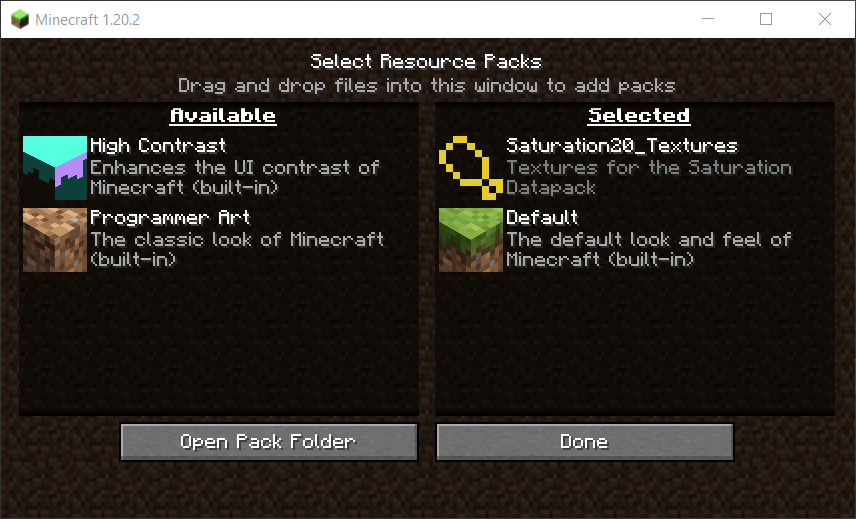
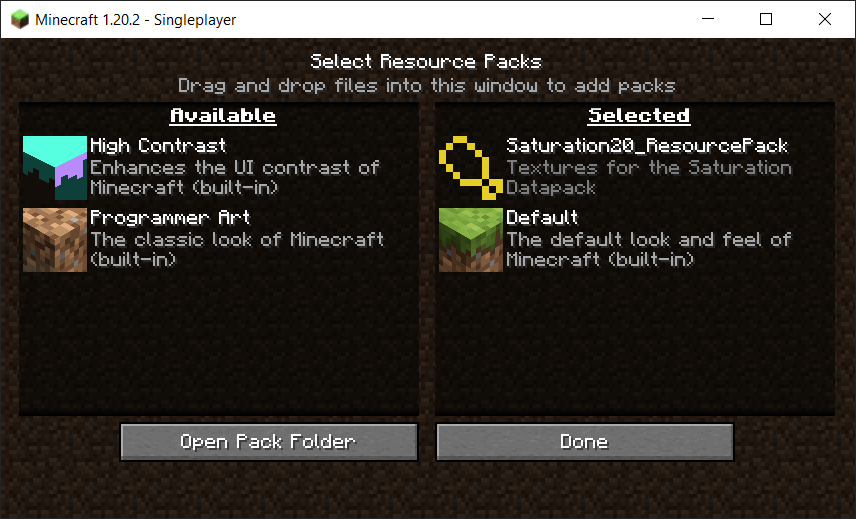
Updated screenshots and improved readme file wording/clarity

diff --git a/readme.md b/readme.md
@@ -4,7 +4,7 @@
 This datapack was originally created by TheMoneyRaider and posted to PlanetMinecraft on Novemeber 13th 2021</b><br />
 Original Source: https://www.planetminecraft.com/data-pack/saturation-bar-in-minecraft/
 
-This git repository contains a modified version of TheMoneyRaider's original Saturation Bar Datapack. This version includes fixes and improvements added by MakCuber, and makes the Datapack natively compatibile with Minecraft 1.20.2
+This git repository contains a modified version of TheMoneyRaider's original Saturation Bar Datapack. This version includes fixes and improvements added by MakCuber, and makes the Datapack natively compatibile with Minecraft Java 1.20.2
 
 The changes compared to the original Saturation Bar Datapack include:
 - Added a fix for a graphical issue with the positioning of the Saturation Icons resulting from incorrect character offsets in the title actionbar commands
@@ -15,20 +15,20 @@ The changes compared to the original Saturation Bar Datapack include:
 
 ## Installation ##
 
-<b>NOTE: This Datapack must be used with the accompaning Resource Pack (the folder labelled Saturation20_Textures), which has also been updated to the latest datapack version for Minecraft 1.20.2. If the accompaning resource pack is not used, the custom title actionbar will show as the blank unicode characters: <code>[]</code> </b>
+<b>NOTE: This Datapack must be used with the accompaning Resource Pack (the folder labelled Saturation20_ResourcePack), which has also been updated to the latest datapack version for Minecraft 1.20.2. If the accompaning resource pack is not used, the custom title actionbar will show as the blank unicode characters: <code>[]</code> </b>
 
 ### Install in Single Player/Local World ###
 
-1. Download the Saturation20 and Saturation20_Textures folders from this git repository. You can do this by clicking the green Code button and selecting the Download ZIP option from the dropdown menu.
+1. Download the Saturation20_Datapack and Saturation20_ResourcePack folders from this git repository. You can do this downloading the latest release files (right sidebar) or by clicking the green Code button in the Github respository and selecting the Download ZIP option from the dropdown menu to download a full copy of the repository files.
 2. Open your Minecraft World folder, either by navigating to it manually, or from within the Minecraft main menu by selecting the world, clicking the Edit button, then clicking the Open World Folder button
 ![Alt text](screenshots/edit_world.PNG)
 ![Alt text](screenshots/open_world_folder.PNG)
 3. In your Minecraft World folder, there should be a folder called "datapacks", copy the Saturation20 folder in its entirity to this "datapacks" folder within your Minecraft World folder
 4. Open your Minecraft Resource Pack folder, either by navigating to it manually, or from within the Minecraft Options Menu by clicking the Resource Packs button and then clicking the Open Pack Folder button
-5. Copy the Saturation20_Textures folder in its entirity to the Resource Pack folder
+5. Copy the Saturation20_ResourcePack folder in its entirety to your local Minecraft Resource Pack folder
 6. The Resource Pack should now be visible in the Minecraft Resource Pack menu. 
 ![Alt text](screenshots/resourcepack_available.PNG)
-7. Hover the mouse cursor over the Saturation20_Texture icon on the left section and click on the Arrow icon that appears to Enable the Resource Pack
+7. Hover the mouse cursor over the Saturation20_ResourcePack icon on the left section and click on the Arrow icon that appears to Enable the Resource Pack
 ![Alt text](screenshots/resourcepack_selected.PNG)
 8. Open your Minecraft World and you should now see the Saturation Bar overlayed on top of the Hunger Bar
 ![Alt text](screenshots/saturation_bar.png)
@@ -39,14 +39,23 @@ The changes compared to the original Saturation Bar Datapack include:
 2. Ensure that your Minecraft Server is not running 
 <br>
 NOTE: While you can technically use the /reload command after installing the datapack instead of restarting the server, this is not recommended if you are running a modded server such as bukit or spigot, restarting the server is safer.
+
 3. Copy the Saturation20 folder in its entirety to the "datapacks" folder within your Minecraft Server's world folder (create the datapacks folder if it doesnt exist). The world folder which will be named with whatever world name you've configured in your server.properties file.
 <br>
-NOTE: This only needs to be done for the primary world folder, it is not required for the _nether and _the_end world folders.
-4. Edit your server.properties file found inside your Minecraft Server folder, and add the following URL to the <code>resource-pack=</code> line: </br>
-<code>`https\://download.mc-packs.net/pack/df7a57a5230a88131f7db0fb304374e5a62bd88f.zip`</code></br>
-IMPORTANT: The colon character <code>:</code> in the URL above must be escape with the proceeding backslash character <code>`\`</code>, without this the Minecraft Server will not be able to read the URL correctly
-7. Ensure the changes to your server.properties file are saved then restart your Minecraft Server
-8. Connect to your Minecraft Server and accept the Resouce Pack
+NOTE: This only needs to be done for the primary world folder, it is not required for the `world_nether` and `world_the_end` world folders.
+
+4. Edit your server.properties file found inside your Minecraft Server folder, and add the following URL to the `resource-pack=` line: </br>
+`https\://download.mc-packs.net/pack/df7a57a5230a88131f7db0fb304374e5a62bd88f.zip`</br>
+IMPORTANT: The colon character `:` in the URL above must be escape with the proceeding backslash character `\`, without this the Minecraft Server will not be able to read the URL correctly
+
+5. Ensure the changes to your server.properties file are saved then restart your Minecraft Server
+6. Connect to your Minecraft Server and accept the Resouce Pack
+
+### Missing Resource Pack Error ###
+
+<b>This Datapack must be used with the accompaning Resource Pack (the folder labelled Saturation20_ResourcePack), which has also been updated to the latest datapack version for Minecraft 1.20.2. If the accompaning resource pack is not used, the custom title actionbar will show a Title of blank unicode characters: </br>
+Example: `[][][][][][][][][][][][][][][][][][][][][][][]` </b>
+![Alt text](screenshots/saturation_bar_missing_resource_pack.png)
 
 <br>
 
@@ -62,13 +71,13 @@ To hide the Saturation Icons when a player is riding, each execute command in th
 to run a data which checks if the target entity has the RootVehicle NBT tag, which denotes that the entity is riding onto of another entity.
 
 <h3>Fixes to Actionbar Title Spacing</h3>
-The original Datapack (created for 1.17) had incosistent spacing when used in the 1.20 version of Minecraft. This caused the Saturation Icons to be shifted to the right and be out of alignment with the Hunger Icons they were supposed to overlay.
+The original Datapack (created for 1.17) had incosistent spacing when used in Minecraft version 1.20 or newer. This caused the Saturation Icons to be shifted to the right and be out of alignment with the Hunger Icons they were supposed to overlay.
 
 <br>
 After manually deciphering the spacing used originally, it was clear that something had changed since 1.17 such that the varied spacing was no longer needed. Changing the spacing to the default space used when saturation is full and empty (97 pixels), completely fixed the graphical alignment issue.
 
 <br>
-This issue appears to be due to changes made to the title command in Minecraft sometime around the release of 1.19.4, though it is unclear exactly what change causes the original spacing to break in 1.20
+This issue appears to be due to changes made to the title command in Minecraft sometime around the release of 1.19.4, though it is unclear exactly what change causes the original spacing formatting to break in versions 1.20 and newer
 
 With this spacing change, there is technically no longer a need for all the other custom blank icon png files that are not used for the default spacing. However, in case an issue like this occurs again in any future updates, the other custom spacing png files have been left intact and the original spacing recorded below.
 
@@ -131,7 +140,16 @@ Full Icon (9-4=5)
 ### Useful Links ###
 - [Reddit Thread outlining how to write commands that target players riding a horse](https://www.reddit.com/r/MinecraftCommands/comments/ep0ug7/how_to_target_a_player_riding_a_horse/)
 - [Reddit Thread outlining bitmap png files are used for custom fonts in datapacks](https://www.reddit.com/r/mcresourcepack/comments/wpcg0a/hi_i_want_to_learn_what_does_the_ascent_and_chars/)
-- [Minecraft Fandom Wiki Guide for installing Datapacks](https://minecraft.fandom.com/wiki/Tutorials/Installing_a_data_pack)
-- [Minecraft Fandom Wiki Guide outlining Datapack formatting](https://minecraft.fandom.com/wiki/Data_pack)
-- [Minecraft Fandom Wiki Guide outlining Resource Pack formatting](https://minecraft.fandom.com/wiki/Resource_pack)
-- [Minecraft Fandom Wiki Guide detailing the Title command](https://minecraft.fandom.com/wiki/Commands/title#History)
+- [Minecraft.Wiki Guide detailing the Title command](https://minecraft.wiki/w/Commands/title)
+</br>
+</br>
+- [Minecraft.Wiki Guide for installing Datapacks](https://minecraft.wiki/w/Tutorials/Installing_a_data_pack)
+- [Minecraft.Wiki Guide for installing Resource Packs](https://minecraft.wiki/w/Tutorials/Loading_a_resource_pack)
+</br>
+</br>
+- [Minecraft.Wiki Datapack Version List](https://minecraft.wiki/w/Pack_format#List_of_data_pack_formats)
+- [Minecraft.Wiki Resource Pack Version List](https://minecraft.wiki/w/Pack_format#List_of_resource_pack_formats)
+</br>
+</br>
+- [Minecraft.Wiki Guide outlining Datapack formatting](https://minecraft.wiki/w/Data_pack)
+- [Minecraft.Wiki Guide outlining Resource Pack formatting](https://minecraft.wiki/w/Resource_pack)
